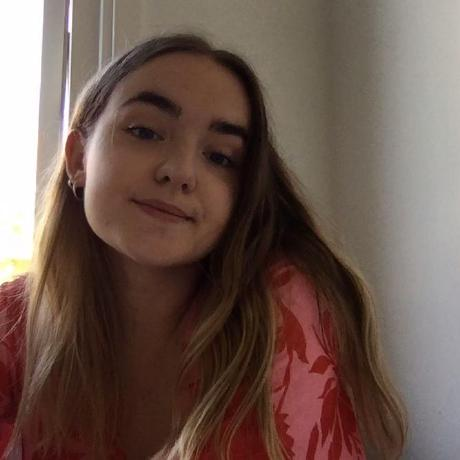
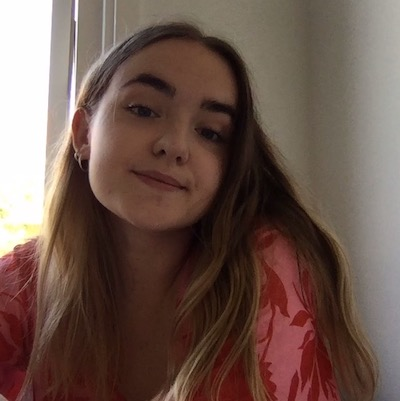
added useContext for theme toggling

diff --git a/pages/index.tsx b/pages/index.tsx
@@ -2,6 +2,7 @@ import Head from "next/head";
 import Image from "next/image";
 import styles from "@styles/index.module.css";
 import profilePic from "@assets/me.jpg";
+import { useTheme } from "context/ThemeContext";
 
 export default function Home() {
   // Todo: Add global stylesheet and use e.g. fonts from that so I don't have to re-write these CSS classes.
@@ -17,7 +18,7 @@ export default function Home() {
             notebook. i write about all sorts of stuff - but mostly about tech + engineering.
           </p>
         </div>
-        <Image className={styles.headerimage} width={300} height={300} src={profilePic}/>
+        <Image className={styles.headerimage} quality={100} width={300} height={300} src={profilePic} />
       </div>
     </div>
   );

diff --git a/context/ThemeContext.tsx b/context/ThemeContext.tsx
@@ -1,0 +1,24 @@
+import React, { createContext, useContext, useState, ReactNode } from 'react';
+import { themeContextType, themeContextProps } from "../types/types"
+
+const themeContextDefaultValues: themeContextType = {
+    darkMode: false,
+    setDarkMode: () => { }
+};
+
+export const Context = createContext<themeContextType>(themeContextDefaultValues);
+
+export function useTheme() {
+    return useContext(Context);
+}
+
+export const ThemeContext = ({ children }: themeContextProps) => {
+    const [darkMode, setDarkMode] = useState(false);
+
+    const value = {
+        darkMode,
+        setDarkMode
+    }
+
+    return <Context.Provider value={value}>{children}</Context.Provider>
+}

diff --git a/pages/_app.tsx b/pages/_app.tsx
@@ -1,10 +1,13 @@
 import '../styles/globals.css'
 import type { AppProps } from 'next/app'
 import { MenuBar } from "@components/menu";
+import { ThemeContext } from "../context/ThemeContext"
 
 export default function MyApp({ Component, pageProps }: AppProps) {
   return <>
-    <MenuBar />
-    <Component {...pageProps} />
+    <ThemeContext>
+      <MenuBar />
+      <Component {...pageProps} />
+    </ThemeContext>
   </>
 }

diff --git a/components/menu.tsx b/components/menu.tsx
@@ -1,9 +1,10 @@
 import React, { useState } from "react";
 import styles from "@styles/menu.module.css";
 import Link from "next/link";
+import { useTheme } from "../context/ThemeContext";
 
 export const MenuBar = () => {
-  const [mode, setMode] = useState();
+  const { darkMode, setDarkMode } = useTheme();
 
   return (
     <>

diff --git a/types/types.tsx b/types/types.tsx
@@ -1,0 +1,10 @@
+import { ReactNode } from "react"
+
+export type themeContextType = {
+    darkMode: boolean,
+    setDarkMode: any
+}
+
+export type themeContextProps = {
+    children: ReactNode
+}
